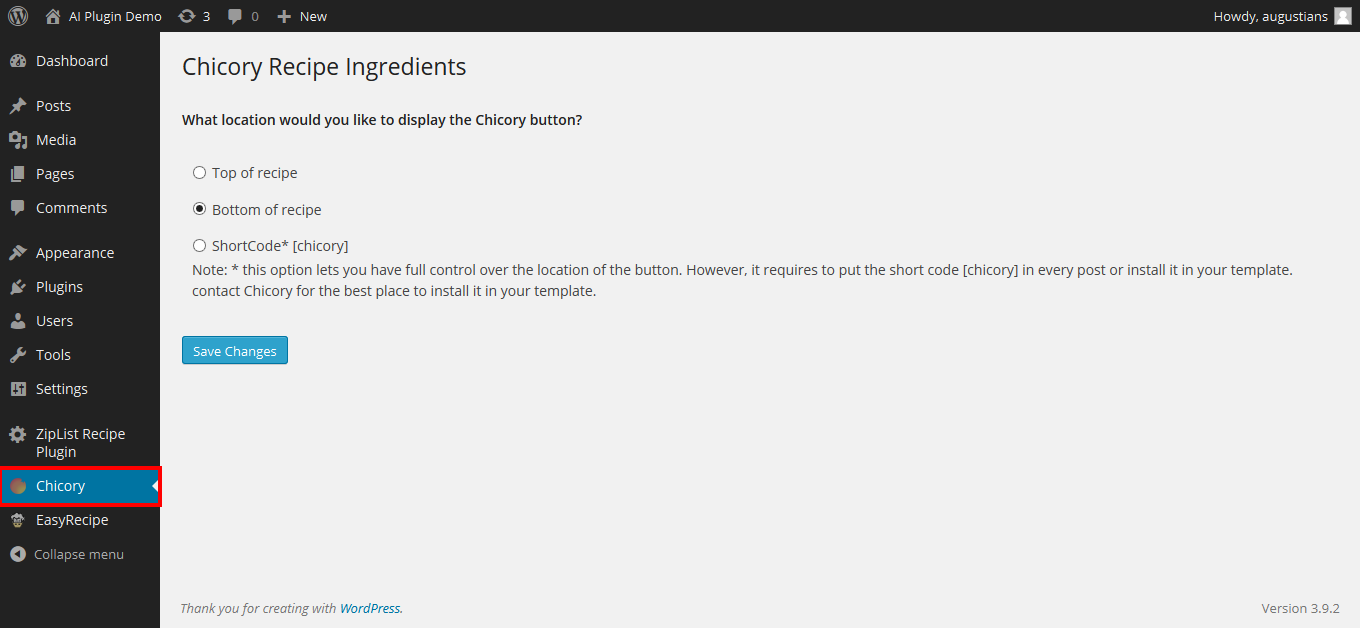
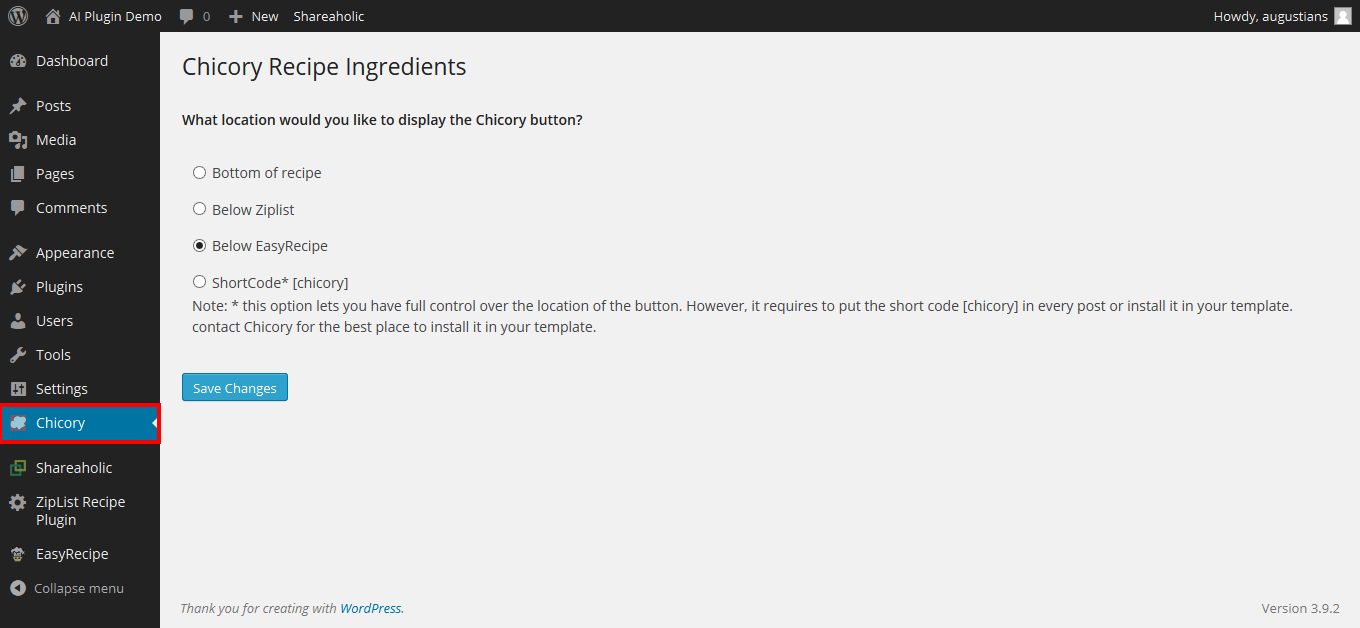
New Version
git-svn-id: https://plugins.svn.wordpress.org/chicory-recipe-ingredients/trunk@969378 b8457f37-d9ea-0310-8a92-e5e31aec5664

diff --git a/chicory-recipe-ingredients.php b/chicory-recipe-ingredients.php
@@ -3,7 +3,7 @@
 Plugin Name: Chicory Recipe Ingredients
 Plugin URI: http://www.chicoryapp.com/
 Description: Chicory connects your recipes directly to leading online grocery stores. The Chicory recipe plugin displays a “get ingredients delivered’ button before or after your recipe, letting  readers cook the  recipes they discover on your site without even having to make a trip to the grocery store.
-Version: 1.0
+Version: 1.1
 Text Domain: chicory-recipe
 Author: Chicory
 Author URI: http://www.chicoryapp.com/
@@ -24,9 +24,8 @@ register_uninstall_hook( __FILE__, 'chicory_uninstall'  );
 * Function Name: chicory_activate
 *
 **/
-
 function chicory_activate() {			
-	add_option( 'chicory_location_button','top','', 'yes' );
+	add_option( 'chicory_location_button', 'bottom', '', 'yes' );
 }
 
 /**
@@ -35,7 +34,6 @@ function chicory_activate() {
 * Function Name: chicory_deactivate
 *
 **/
-	 
 function chicory_deactivate(){
 	delete_option( 'chicory_location_button' );
 }
@@ -45,8 +43,7 @@ function chicory_deactivate(){
 *
 * Function Name: chicory_uninstall
 *
-**/
-		
+**/	
 function chicory_uninstall(){	
 	delete_option( 'chicory_location_button' );
 }
@@ -57,22 +54,24 @@ function chicory_uninstall(){
 * Function Name: chicory_plugin_load_function.
 *
 **/
-
-add_action( 'plugins_loaded','chicory_plugin_load_function' );
 function chicory_plugin_load_function(){
 	if ( is_admin() ) {
 		add_action( 'admin_menu', 'chicory_admin_menu' );
 	} else {
-		if(get_option( 'chicory_location_button' ) == 'top') {
-			add_filter( 'the_content', 'chicory_top_recipe_display',1 );
-		} else if(get_option( 'chicory_location_button' ) == 'bottom') {
-			add_filter( 'the_content', 'chicory_bottom_recipe_display' ,1);
-		} else if(get_option( 'chicory_location_button' ) == 'shortcode') {
+		$chicory_location_button = get_option( 'chicory_location_button' );
+		if( $chicory_location_button == 'bottom' ) {
+			add_filter( 'the_content', 'chicory_bottom_recipe_display', 1 );
+		} else if( $chicory_location_button == 'ziplist' ) {
+			add_action( 'wp_head', 'chicory_ziplist_recipe_display' );
+		} else if( $chicory_location_button == 'easyrecipe' ) {
+			add_action( 'wp_head', 'chicory_easyrecipe_recipe_display' );
+		} else if( $chicory_location_button == 'shortcode' ) {
 			add_shortcode( 'chicory', 'chicory_shortcode_recipe_display' );
 		}
 		add_action( 'wp_enqueue_scripts', 'chicory_scripts' );
 	}	
 }
+add_action( 'plugins_loaded','chicory_plugin_load_function' );
 
 /**
 * When plugin loaded then all script also loaded.
@@ -81,7 +80,9 @@ function chicory_plugin_load_function(){
 *
 **/
 function chicory_scripts() {
-	wp_enqueue_script( 'chicory-script', 'http://chicoryapp.com/widget/', array(), '', true );
+	if(is_single()) {
+		wp_enqueue_script( 'chicory-script', 'http://chicoryapp.com/widget/', array(), '', true );
+	}
 }
 
 /**
@@ -91,7 +92,7 @@ function chicory_scripts() {
 *
 **/
 function chicory_admin_menu() { 
-	add_menu_page('Chicory Recipe Ingredients', 'Chicory', 'administrator', __FILE__, 'chicory_settings_page',plugins_url('/icon/icon.png', __FILE__));
+	add_menu_page('Chicory Recipe Ingredients', 'Chicory', 'administrator', __FILE__, 'chicory_settings_page',plugins_url('/icon/icon.png', __FILE__), 82);
 
 	add_action( 'admin_init', 'chicory_register_settings' );
 }
@@ -122,11 +123,12 @@ function chicory_settings_page() { ?>
 		<table class="form-table">
 			<tr valign="top">
 				<th scope="row"><?php _e( 'What location would you like to display the Chicory button?', 'chicory-recipe' ) ?></th>
-			<tr>
+			</tr>
 			<tr>
 				<td>
-					<input type="radio" id="chicory_location_button" name="chicory_location_button" value="top" <?php echo ((get_option('chicory_location_button') == 'top') ? 'checked="checked"' : '') ?> /><?php _e( 'Top of recipe', 'chicory-recipe' ) ?><br/><br/>
 					<input type="radio" id="chicory_location_button" name="chicory_location_button" value="bottom" <?php echo ((get_option('chicory_location_button') == 'bottom') ? 'checked="checked"' : '') ?> /><?php _e( 'Bottom of recipe', 'chicory-recipe' ) ?><br/><br/>
+					<input type="radio" id="chicory_location_button" name="chicory_location_button" value="ziplist" <?php echo ((get_option('chicory_location_button') == 'ziplist') ? 'checked="checked"' : '') ?> /><?php _e( 'Below Ziplist', 'chicory-recipe' ) ?><br/><br/>
+					<input type="radio" id="chicory_location_button" name="chicory_location_button" value="easyrecipe" <?php echo ((get_option('chicory_location_button') == 'easyrecipe') ? 'checked="checked"' : '') ?> /><?php _e( 'Below EasyRecipe', 'chicory-recipe' ) ?><br/><br/>
 					<input type="radio" id="chicory_location_button" name="chicory_location_button" value="shortcode" <?php echo ((get_option('chicory_location_button') == 'shortcode') ? 'checked="checked"' : '') ?> /><?php _e( 'ShortCode* [chicory]', 'chicory-recipe' ) ?>
 					<p><?php _e( 'Note: * this option lets you have full control over the location of the button. However, it requires to put the short code [chicory] in every post or install it in your template. contact Chicory for the best place to install it in your template.', 'chicory-recipe' ) ?></p>
 				</td>
@@ -139,20 +141,6 @@ function chicory_settings_page() { ?>
 <?php } 
 
 /**
-* Chicory Recipe Ingredients Top Content Page Display.
-*
-* Function Name: chicory_top_recipe_display.
-*
-**/
-function chicory_top_recipe_display( $content ) {
-   if(is_single()) {
-      $custom_content = '<div class="chicory-order-ingredients"></div>';
-      $custom_content .= $content;
-   }
-   return $custom_content;
-}
-
-/**
 * Chicory Recipe Ingredients Bottom Content Page Display.
 *
 * Function Name: chicory_bottom_recipe_display.
@@ -160,9 +148,10 @@ function chicory_top_recipe_display( $content ) {
 **/
 function chicory_bottom_recipe_display( $content ) {
    if(is_single()) {
-     	$content.= '<div class="chicory-order-ingredients"></div>';
-   }
-   return $content;
+		$chicory_content .= $content;
+     	$chicory_content.= '<div class="chicory-order-ingredients"></div>';
+		return $chicory_content;
+   } 
 }
 
 /**
@@ -174,5 +163,53 @@ function chicory_bottom_recipe_display( $content ) {
 function chicory_shortcode_recipe_display() {
    $content = '<div class="chicory-order-ingredients"></div>';
    return $content;
+}
+
+/**
+* Chicory Recipe Ingredients Below Ziplist Content Page Display.
+*
+* Function Name: chicory_ziplist_recipe_display.
+*
+**/
+function chicory_ziplist_recipe_display() {
+	global $wpdb; 
+	$post_id = get_the_ID();
+	$ziplist = $wpdb->get_row( "SELECT * FROM " . $wpdb->prefix . "posts WHERE post_content LIKE '%amd-zlrecipe-recipe%' AND ID = " . $post_id );
+	if( $ziplist ) {  ?>
+	   <script type="text/javascript" >
+			jQuery(document).ready(function($) {
+				if( jQuery('.zlrecipe-container-border')[0] ) {
+					jQuery('<div class="chicory-order-ingredients"></div>').insertAfter( jQuery('.zlrecipe-container-border') );
+				}
+			});
+		</script>
+	<?php 
+	} else {
+		add_filter( 'the_content', 'chicory_bottom_recipe_display', 1 );
+	}
+}
+
+/**
+* Chicory Recipe Ingredients Below EasyRecipe Content Page Display.
+*
+* Function Name: chicory_easyrecipe_recipe_display.
+*
+**/
+function chicory_easyrecipe_recipe_display() {
+	global $wpdb;
+	$post_id = get_the_ID(); 
+	$easyrecipe = $wpdb->get_row( "SELECT * FROM " . $wpdb->prefix . "posts WHERE post_content LIKE '%easyrecipe%' AND post_content LIKE '%endeasyrecipe%' AND ID = " . $post_id );	
+	if( $easyrecipe ) { ?>
+	   <script type="text/javascript" >
+			jQuery(document).ready(function($) {
+				if( jQuery('.easyrecipe')[0] ) {
+					jQuery('<div class="chicory-order-ingredients"></div>').insertAfter( jQuery('.easyrecipe') );
+				}
+			});			
+		</script>
+	<?php
+	} else {
+		add_filter( 'the_content', 'chicory_bottom_recipe_display', 1 );
+	}
 }
 ?>
